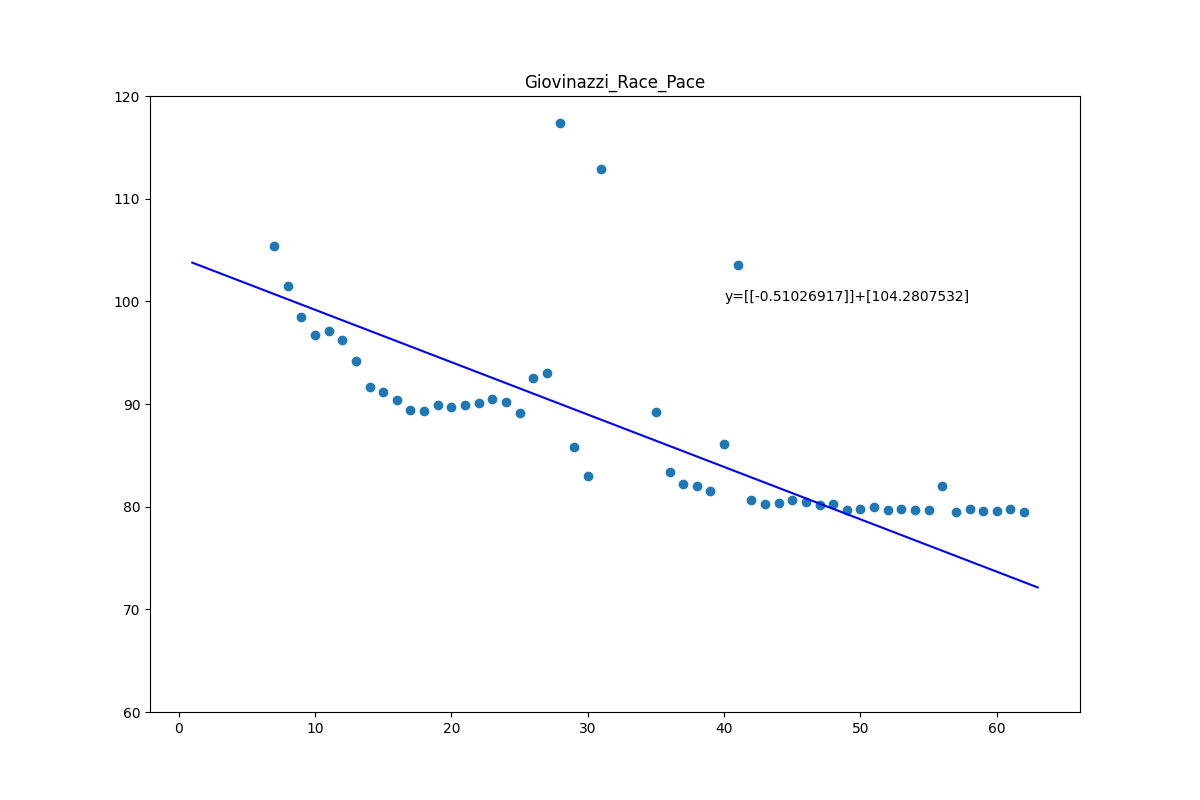
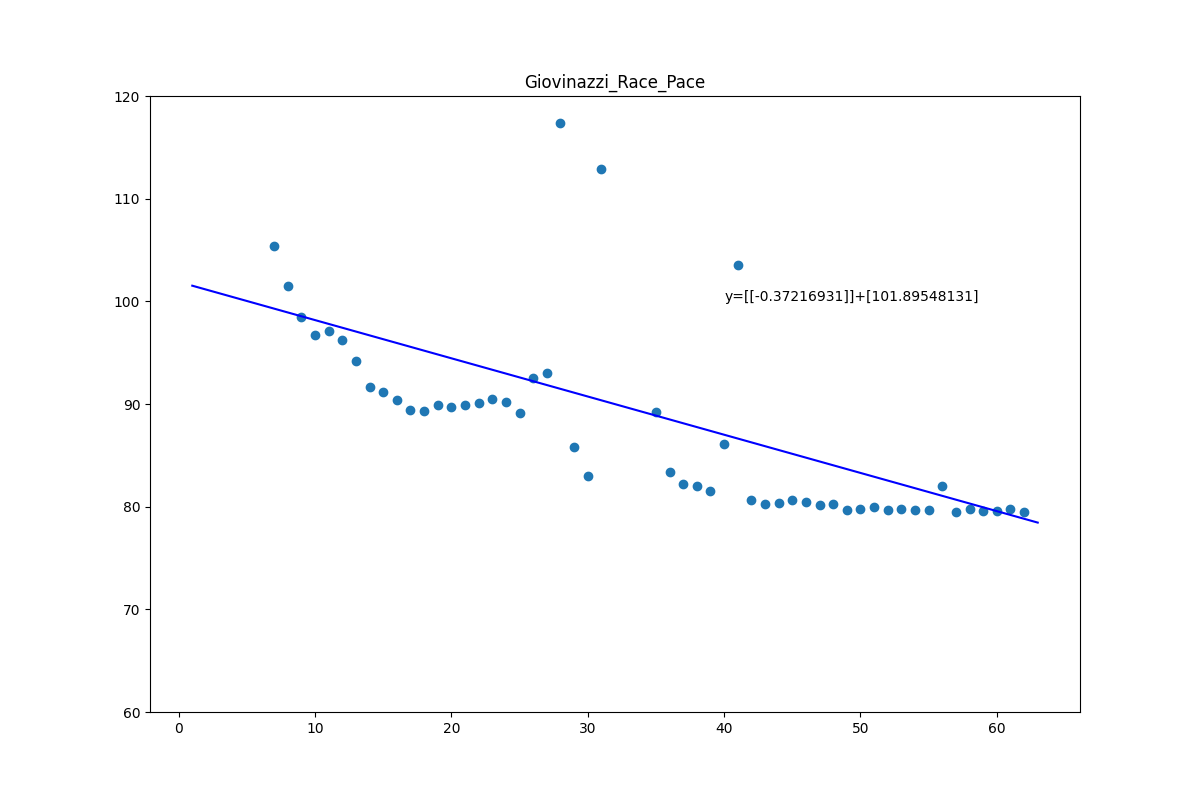
NaNのところを改善

diff --git a/2021/F1/plot.py b/2021/F1/plot.py
@@ -4,39 +4,46 @@ import matplotlib.pyplot as plt
 from sklearn.linear_model import LinearRegression
 from sklearn import preprocessing
 import numpy as np
-
+import math
 
 def plot(drivername,driver_lap,lap_number,round):
     fig = plt.figure(figsize=(12, 8))
     npdriver_lap = np.array(driver_lap)
     npnumber_lap = np.array(lap_number)
-    c_min, c_max = np.percentile(npdriver_lap, [0, 80])
-    print(c_min,c_max,npdriver_lap.min())
-    npdriver_lap = np.clip(npdriver_lap, c_min, c_max)
-    input_driver_data = npdriver_lap.reshape(-1,1)
-    input_lap_data = npnumber_lap.reshape(-1,1)
-    # print(input_lap_data)
-    model = LinearRegression()
-    model.fit(input_lap_data, input_driver_data)
-    intercept = str(model.intercept_)
-    coef = str(model.coef_)
-    predicted = model.predict(input_lap_data)
-    plt.scatter(lap_number,driver_lap)
-    plt.plot(input_lap_data, predicted, color = 'blue')
-    title = drivername + "_Race_Pace"
-    plt.title(title)
-    formula = "y="+ coef + "+" + intercept
-    plt.text(40, 100, formula, size=10)
-    plt.ylim(60.0,120.0)
-    figure_name = "Rd" + str(round) + "/" + drivername + "_Race_Pace.png"
-    plt.savefig(figure_name)
-    # plt.show()
+    try:
+        npdriver_lap = np.nan_to_num(npdriver_lap, nan=np.nanmean(npdriver_lap))
+        c_min, c_max = np.percentile(npdriver_lap, [0, 80])
+        print(c_min,c_max,npdriver_lap.min())
+        npdriver_lap = np.clip(npdriver_lap, c_min, c_max)
+        input_driver_data = npdriver_lap.reshape(-1,1)
+        input_lap_data = npnumber_lap.reshape(-1,1)
+        # print(input_lap_data)
+        model = LinearRegression()
+        model.fit(input_lap_data, input_driver_data)
+        intercept = str(model.intercept_)
+        coef = str(model.coef_)
+        predicted = model.predict(input_lap_data)
+        plt.scatter(lap_number,driver_lap)
+        plt.plot(input_lap_data, predicted, color = 'blue')
+        title = drivername + "_Race_Pace"
+        plt.title(title)
+        formula = "y="+ coef + "+" + intercept
+        plt.text(40, 100, formula, size=10)
+        plt.ylim(60.0,120.0)
+        figure_name = "Rd" + str(round) + "/" + drivername + "_Race_Pace.png"
+        plt.savefig(figure_name)
+        # plt.show()
+    except (ValueError,IndexError):
+        return
+    
 
 
-f = open('Rd2_Race_1_total.csv','r')
-reader = csv.reader(f)
+
 print("ラウンド数を入れてください")
 round = int(input())
+file_name = 'Rd' + str(round) + '_Race_1_total.csv'
+f = open(file_name,'r')
+reader = csv.reader(f)
 lap_number=[]
 drivername = []
 lap_time = []
@@ -53,7 +60,7 @@ for row in reader:
             try:
                 lap_time.append(float(lap))
             except (ValueError,IndexError):
-                lap_time.append(0.0)
+                lap_time.append(math.nan)
         # print(len(lap_time))
         # print(len(lap_number))
         plot(row[0],lap_time,lap_number,round)
